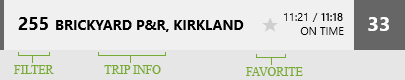
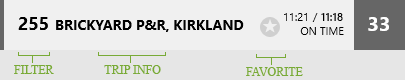
Changing the favorites star so that it is more prominent.
git-tfs-id: [https://mbraude.visualstudio.com:443/DefaultCollection]$/Windows8/OneBusAway;C269

Changed region(s): [[0.6222, 0.2, 0.7111, 0.475]]

diff --git a/OneBusAway/Controls/RoutesAndStopsControl.xaml b/OneBusAway/Controls/RoutesAndStopsControl.xaml
@@ -13,8 +13,7 @@
              d:DesignWidth="400">
 
     <UserControl.Resources>
-        <conv:TrackingDataToColorConverter x:Key="trackingDataToColorConverter" />
-        <conv:StopAndRouteToFavoriteColorConverter x:Key="stopAndRouteToFavoriteColorConverter" />
+        <conv:TrackingDataToColorConverter x:Key="trackingDataToColorConverter" />        
         <conv:TimeToTextConverter x:Key="timeToTextConverter" />
         <conv:CapitalLetterConverter x:Key="capitalLetterConverter" />
         <conv:StringFormatConverter x:Key="stringFormatConverter" />
@@ -181,20 +180,11 @@
                                                      FontWeight="Bold"
                                                      HorizontalTextAlignment="Left"
                                                      VerticalTextAlignment="Center" />
-
-                            <ctrls:ScalableTextBlock Grid.Row="0"
-                                                     Grid.Column="2"
-                                                     Text="&#xE113;"
-                                                     FontFamily="Segoe UI Symbol"
-                                                     Command="{Binding AddToFavoritesCommand, Source={StaticResource navigationProxy}}"
-                                                     CommandParameter="{Binding}"
-                                                     Foreground="{Binding IsFavorite, Converter={StaticResource stopAndRouteToFavoriteColorConverter}}"
-                                                     NormalFontSize="14"
-                                                     SnappedFontSize="14"
-                                                     Margin="5,0,0,0"
-                                                     FontWeight="Bold"
-                                                     HorizontalTextAlignment="Center"
-                                                     VerticalTextAlignment="Center" />
+                            
+                            <ctrls:FavoriteControl Grid.Row="0"
+                                                   Grid.Column="2"
+                                                   DataContext="{Binding}"
+                                                   Margin="5,0,0,0" />
                             
                             <StackPanel Grid.Row="0"
                                         Grid.Column="3"
@@ -438,7 +428,7 @@
                 <ctrls:ScalableTextBlock Text="Just tap the" />
                 <ctrls:ScalableTextBlock Text="&#xE113;"
                                          Margin="2,-2,2,2"
-                                         FontFamily="Segoe UI Symbol" />
+                                         FontFamily="Segoe UI Symbol" />                
                 <ctrls:ScalableTextBlock Text="on a route to pin/unpin a favorite." />
             </StackPanel>
 

diff --git a/OneBusAway/Controls/FavoriteControl.xaml b/OneBusAway/Controls/FavoriteControl.xaml
@@ -1,0 +1,40 @@
+<UserControl x:Class="OneBusAway.Controls.FavoriteControl"
+             xmlns="http://schemas.microsoft.com/winfx/2006/xaml/presentation"
+             xmlns:x="http://schemas.microsoft.com/winfx/2006/xaml"
+             xmlns:local="using:OneBusAway.Controls"
+             xmlns:d="http://schemas.microsoft.com/expression/blend/2008"
+             xmlns:mc="http://schemas.openxmlformats.org/markup-compatibility/2006"
+             xmlns:conv="using:OneBusAway.Converters"
+             mc:Ignorable="d"
+             PointerPressed="OnPointerPressed"
+             x:Name="root"
+             Width="20"
+             Height="20"
+             d:DesignHeight="20"
+             d:DesignWidth="20">
+    
+    <UserControl.Resources>
+        <conv:StopAndRouteToFavoriteColorConverter x:Key="stopAndRouteToFavoriteColorConverter" />
+    </UserControl.Resources>
+
+    <Grid HorizontalAlignment="Center"
+          VerticalAlignment="Center">
+
+        <Canvas Width="20"
+                Height="20">
+            <Ellipse Canvas.Left="0"
+                     Canvas.Top="0"
+                     Width="20"
+                     Height="20"
+                     Fill="{Binding IsFavorite, Converter={StaticResource stopAndRouteToFavoriteColorConverter}}" />
+        </Canvas>
+
+        <TextBlock Text="&#xE0B4;"
+                   FontSize="14"
+                   Margin="0,-4,0,0"
+                   HorizontalAlignment="Center"
+                   VerticalAlignment="Center"
+                   Foreground="#FFF0F0F0"
+                   FontFamily="Segoe UI Symbol" />
+    </Grid>
+</UserControl>

diff --git a/OneBusAway/Controls/FavoriteControl.xaml.cs b/OneBusAway/Controls/FavoriteControl.xaml.cs
@@ -1,0 +1,32 @@
+using System;
+using System.Collections.Generic;
+using System.IO;
+using System.Linq;
+using Windows.Foundation;
+using Windows.Foundation.Collections;
+using Windows.UI.Xaml;
+using Windows.UI.Xaml.Controls;
+using Windows.UI.Xaml.Controls.Primitives;
+using Windows.UI.Xaml.Data;
+using Windows.UI.Xaml.Input;
+using Windows.UI.Xaml.Media;
+using Windows.UI.Xaml.Navigation;
+
+namespace OneBusAway.Controls
+{
+    public sealed partial class FavoriteControl : UserControl
+    {
+        public FavoriteControl()
+        {
+            this.InitializeComponent();
+        }
+
+        /// <summary>
+        /// Fires the AddToFavorites command and passes it our data context.
+        /// </summary>
+        private void OnPointerPressed(object sender, PointerRoutedEventArgs e)
+        {
+            NavigationController.Instance.AddToFavoritesCommand.Execute(this.DataContext);
+        }
+    }
+}
